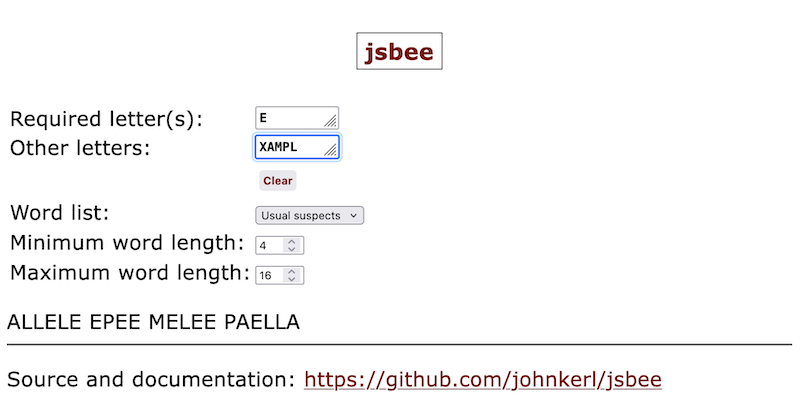
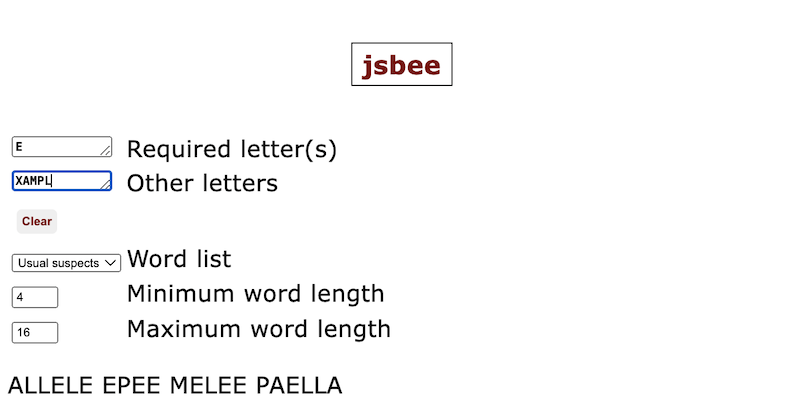
update screenshots to new widget/label alignment

diff --git a/README.md b/README.md
@@ -33,6 +33,6 @@ Make all letters required --- this means any match must match _all_ of the lette
 
 ![example-4](./examples/example-4.png)
 
-Make all letters required --- this means any match must match _any_ of the letters:
+Make all letters non-required --- this means any match must match _any combination_ of the letters:
 
 ![example-5](./examples/example-5.png)
